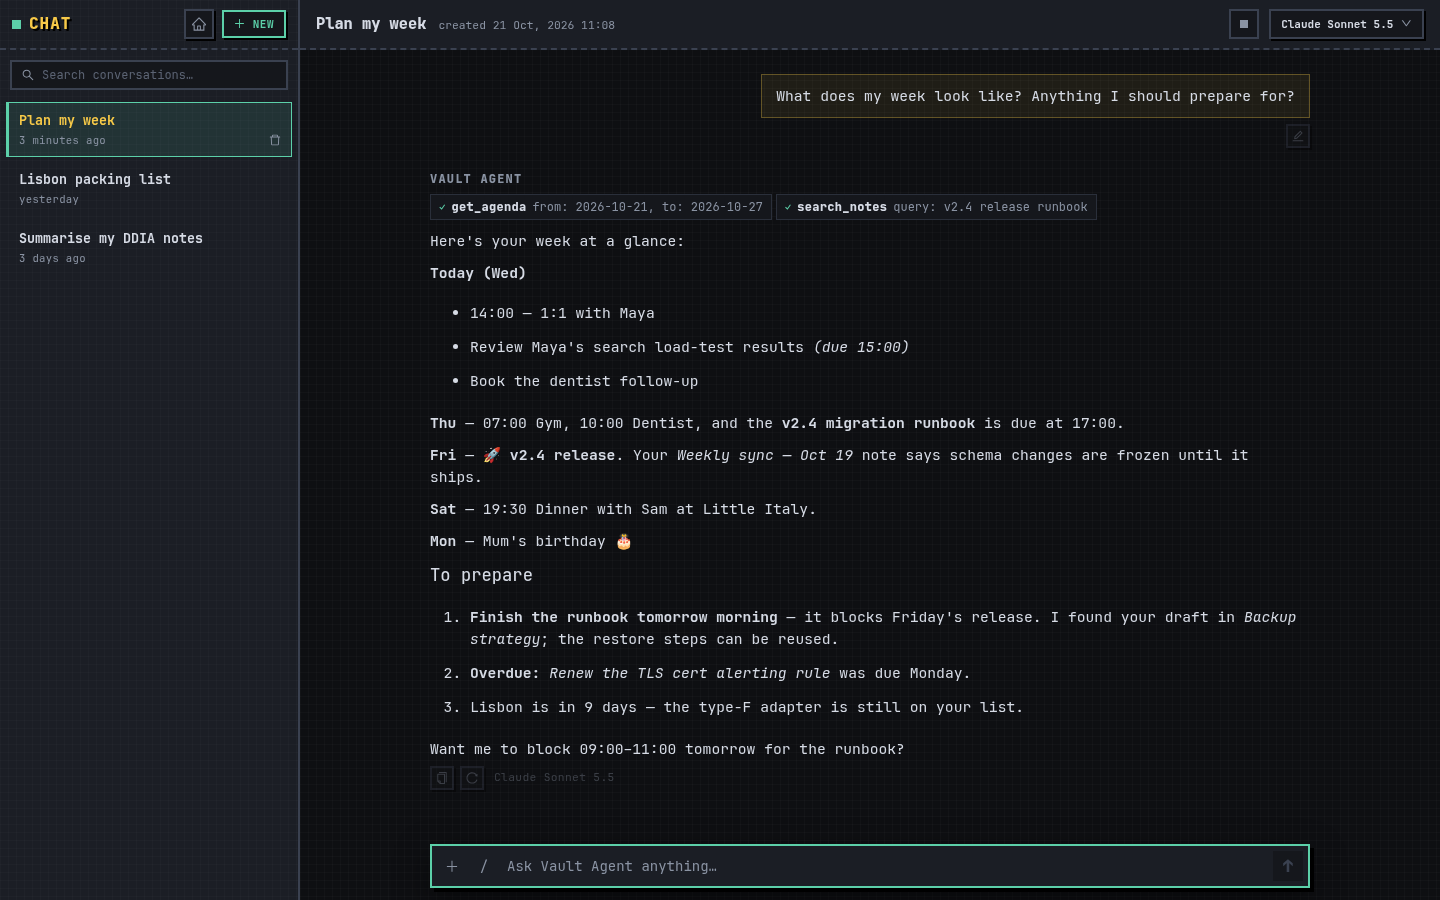
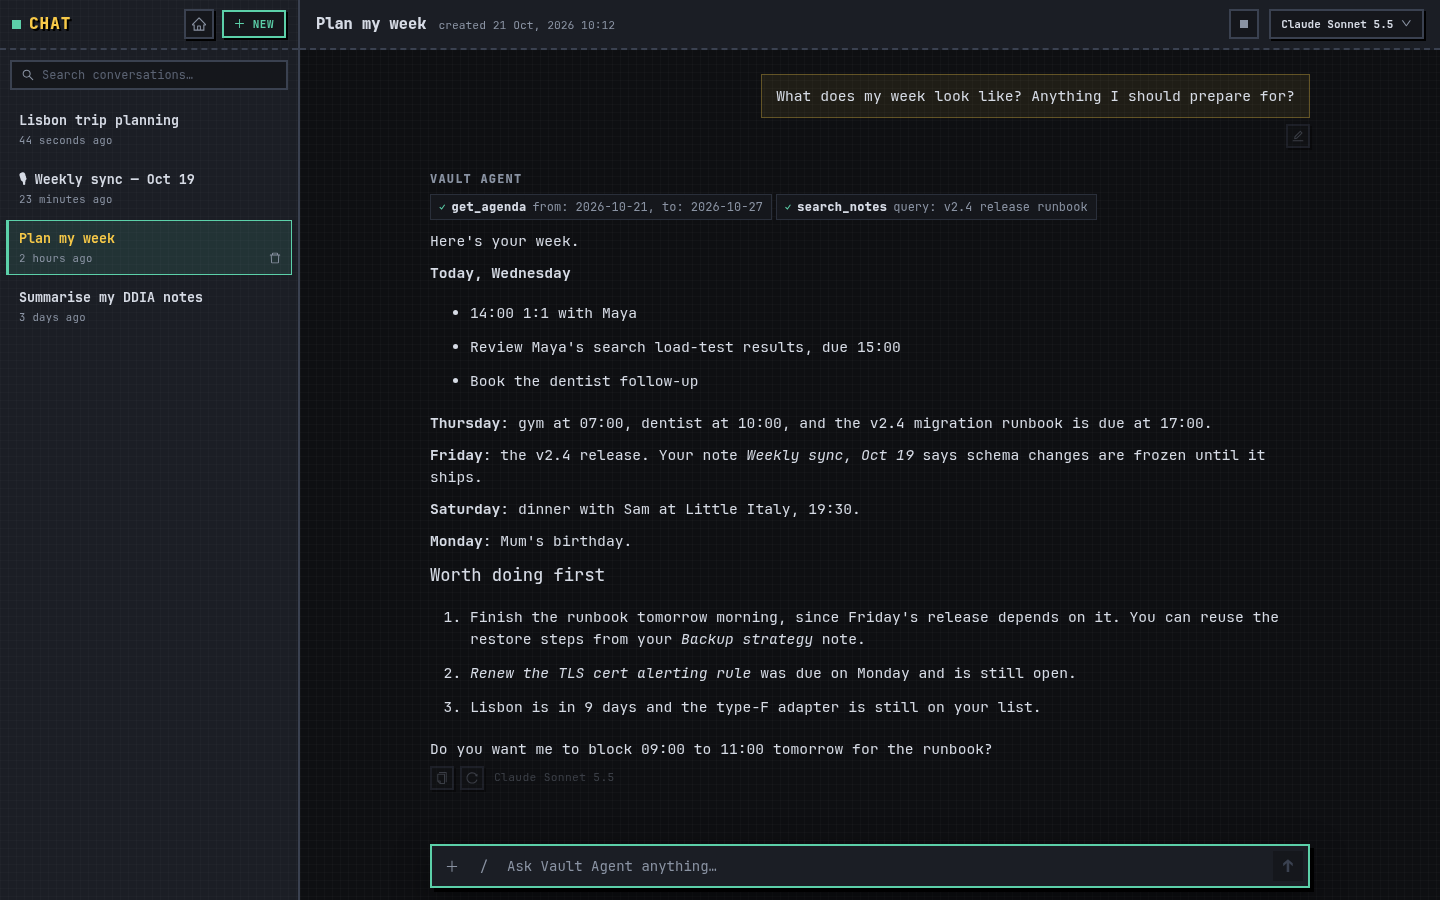
docs(readme): lead with the assistant acting on the vault
New lead screenshot: the assistant creating two tasks, an event and a note,
linking each one and offering a Go button. Adds a section on what the
assistant can do (tool coverage, links, slash commands, scheduled jobs, MCP
servers, scoped API keys, the Claude Code skills).

diff --git a/README.md b/README.md
@@ -21,28 +21,38 @@ Piuma Vault is a personal workspace you run on your own server. It keeps your no
 <table>
   <tr>
     <td colspan="2" valign="top">
-      <img src="docs/screenshots/chat.png" alt="Chat: the assistant looks up the agenda and searches notes, then summarises the week" />
-      <p><b>Chat.</b> This is the main way to use the vault. The assistant looks things up in your agenda, notes, tasks, files, recordings and memory, and it can search the web. It answers from what it finds and can make changes for you. Each conversation keeps its history and can use a different model. It works with Anthropic, OpenAI, Gemini, DeepSeek, Minimax or a model running on your own machine.</p>
+      <img src="docs/screenshots/chat-actions.png" alt="Chat: the assistant creates two tasks, a calendar event and a note, links to each one and offers a button to open the note" />
+      <p><b>Chat.</b> This is the main way to use the vault. The assistant is connected to everything in it, so you can ask in plain words and it does the work: here it adds two tasks, puts an event in the calendar and writes a note, then links to each one. Click a link to open that note, task or event. It works with Anthropic, OpenAI, Gemini, DeepSeek, Minimax or a model running on your own machine, and each conversation can use a different one.</p>
     </td>
   </tr>
   <tr>
     <td width="50%" valign="top">
-      <img src="docs/screenshots/workspace.png" alt="Workspace: the notes tree, an open note and the assistant docked beside it" />
-      <p><b>Workspace.</b> You can dock the assistant next to the note you are working on. It reads that note before it answers.</p>
+      <img src="docs/screenshots/chat.png" alt="Chat: the assistant looks up the agenda and searches notes, then summarises the week" />
+      <p><b>Planning.</b> Ask what your week looks like and it reads your calendar, tasks and notes before it answers, so the plan uses what you already wrote down.</p>
     </td>
+    <td width="50%" valign="top">
+      <img src="docs/screenshots/workspace.png" alt="Workspace: the note the assistant just wrote, open next to the chat that wrote it" />
+      <p><b>Workspace.</b> Dock the assistant next to what you are working on. Here the note it just wrote is open beside the chat. It reads the open note before it answers.</p>
+    </td>
+  </tr>
+  <tr>
     <td width="50%" valign="top">
       <img src="docs/screenshots/notes.png" alt="Notes: a folder tree and a note with a table, a diagram and a code block" />
       <p><b>Notes.</b> Markdown notes in folders, with tags and version history. Tables, Mermaid diagrams and code blocks render in place. Any note can be shared at a public link.</p>
     </td>
-  </tr>
-  <tr>
     <td width="50%" valign="top">
       <img src="docs/screenshots/calendar.png" alt="Calendar: a month grid with multi-day bars, timed events and tasks" />
       <p><b>Calendar.</b> A month view that scrolls through the year. An event that lasts several days is one bar across those days. Recurring events and tasks show on every day they happen, and you can tick tasks off from the grid.</p>
     </td>
+  </tr>
+  <tr>
     <td width="50%" valign="top">
       <img src="docs/screenshots/tasks.png" alt="Tasks: overdue, due today and upcoming tasks" />
       <p><b>Tasks.</b> Overdue, today and upcoming tasks on one page. Tasks can have a bucket, tags, a priority, a repeat rule and reminders.</p>
+    </td>
+    <td width="50%" valign="top">
+      <img src="docs/screenshots/storage.png" alt="Storage: a file tree and a folder of files" />
+      <p><b>Storage.</b> A file browser on top of your own S3 bucket (Bunny, Cloudflare R2, AWS S3, MinIO and others). You can make folders, upload, preview files and share a folder at a public link.</p>
     </td>
   </tr>
   <tr>
@@ -61,12 +71,6 @@ Piuma Vault is a personal workspace you run on your own server. It keeps your no
       <p><b>Voice.</b> Talk to the assistant out loud. Press <kbd>Ctrl</kbd> + <kbd>Space</kbd> anywhere in the app to start or stop.</p>
     </td>
     <td width="50%" valign="top">
-      <img src="docs/screenshots/storage.png" alt="Storage: a file tree and a folder of files" />
-      <p><b>Storage.</b> A file browser on top of your own S3 bucket (Bunny, Cloudflare R2, AWS S3, MinIO and others). You can make folders, upload, preview files and share a folder at a public link.</p>
-    </td>
-  </tr>
-  <tr>
-    <td colspan="2" valign="top">
       <img src="docs/screenshots/memory.png" alt="Memory: the facts the assistant has saved, confirmed and pending" />
       <p><b>Memory.</b> This page shows what the assistant remembers about you, and you can edit it. There is a short profile it always sees, a list of facts it looks up when they are relevant, and a search over past conversations. Facts it guesses on its own stay marked as pending until you or later conversations confirm them.</p>
     </td>
@@ -81,9 +85,30 @@ Piuma Vault is a personal workspace you run on your own server. It keeps your no
 
 ## Features
 
-### Assistant and memory
+### An assistant connected to the whole vault
 
-You connect the AI providers you want (Anthropic, OpenAI, Gemini, DeepSeek and others) and chat with an assistant that remembers you between conversations. Its memory has three layers.
+The assistant is wired into every part of the vault. It can read, create, edit and delete things for you, the same way you would by hand. It has more than 80 tools:
+
+* Notes: search by words or meaning, read, create, edit, append, move and delete, and browse folders and tags.
+* Tasks: create, update, complete and delete tasks and recurring tasks, and manage buckets.
+* Calendar: create, move and delete events, and read a combined agenda of events and tasks.
+* Files: list, move and delete files in your bucket, make download links and zip folders.
+* Shares, recordings and its own memory.
+* Outside the vault: web search, reading web pages, sending and reading email, GitHub (read code, open issues and pull requests) and image generation.
+
+When it mentions a note, task or event it links to it, and when you ask to be taken somewhere it shows a Go button. Type `/` in the chat for commands such as `/agenda`, `/todos` (pull action items out of a note) and `/summarize`, and add your own per agent. You can attach notes to a message so it works from them.
+
+It can also work while you are away. On the Scheduled page you give it a prompt and a repeat rule, for example a morning briefing at 07:00 or a weekly review every Sunday. It runs on its own with the same tools and posts the result to the notification bell, with a push notification to your browser or phone.
+
+It also connects to other tools:
+
+* Connect MCP servers on the Services page to give the assistant more tools.
+* Create API keys limited to what a script or another app needs, such as read-only notes or write access to tasks.
+* The repo includes a [Claude Code skill](skills/piuma-vault/SKILL.md) that lets Claude Code read and change your notes, tasks and calendar from the terminal.
+
+### Memory
+
+The assistant remembers you between conversations. Its memory has three layers.
 
 * L1 is a short profile and scratchpad that goes into every prompt.
 * L2 is a list of single facts stored with vector embeddings. The assistant pulls in the ones that match the current conversation. Every few turns it also reads recent chats and writes down facts it thinks are true. Those start as pending and become confirmed when you approve them or when they come up again.
